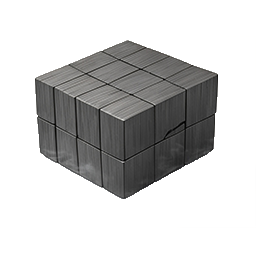
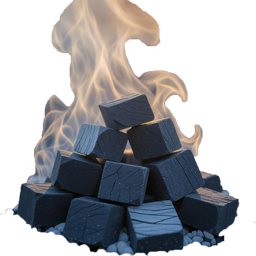
minor tech and graphics updates

diff --git a/README.MD b/README.MD
@@ -3,23 +3,24 @@
 This mod adds:
 
 Recipes:
-- Charcoal burning recipe (Optional): Smelt Wooden chests into coal
-- Zen-wood: 100 wood for 2000 water, made in Zen-garden
 - Compost from wood or spoilage -> spoils into Artificial-grass
+- Zen-wood: 100 wood for 2000 water, made in Zen-garden
+- Charcoal burning: Smelt Wooden chests into coal - (optional)
 
 Tile:
 - Artificial Grass: Natural grass tile, consumes pollution, can be used instead of landfill, supports all tree-seeds.
 
-Wood production:
+Wood production: - (optional)
 - Zen Tower: A small early agricultural tower for Nauvis, plants on a 2x2 compact grid.
 - Zen Tower MK2: A large agricultural tower for both Gleba and Nauvis, plants on a 2x2 compact grid.
 - Zen Garden: A standalone high tier building with a pressure dome, can be placed on any surface. Has 4 module slots.
 
-Seeds:
+Seeds: - (optional)
 - Extended seed selection +8 (base game) +20 (alien-biomes-compatible)
 
-Cosmetics with pollution filtering capabilities:
+Cosmetics with pollution filtering capabilities: - (optional)
 - Zen-tree in a portable planting box, for each tree type (alien-biomes-compatible).
 - Gear-garden. Consumes pollution just have to water the trees.
 
-
+Tweaks:
+- Fuel pollution changed for wood (50%) and coal (150%) - (optional)
